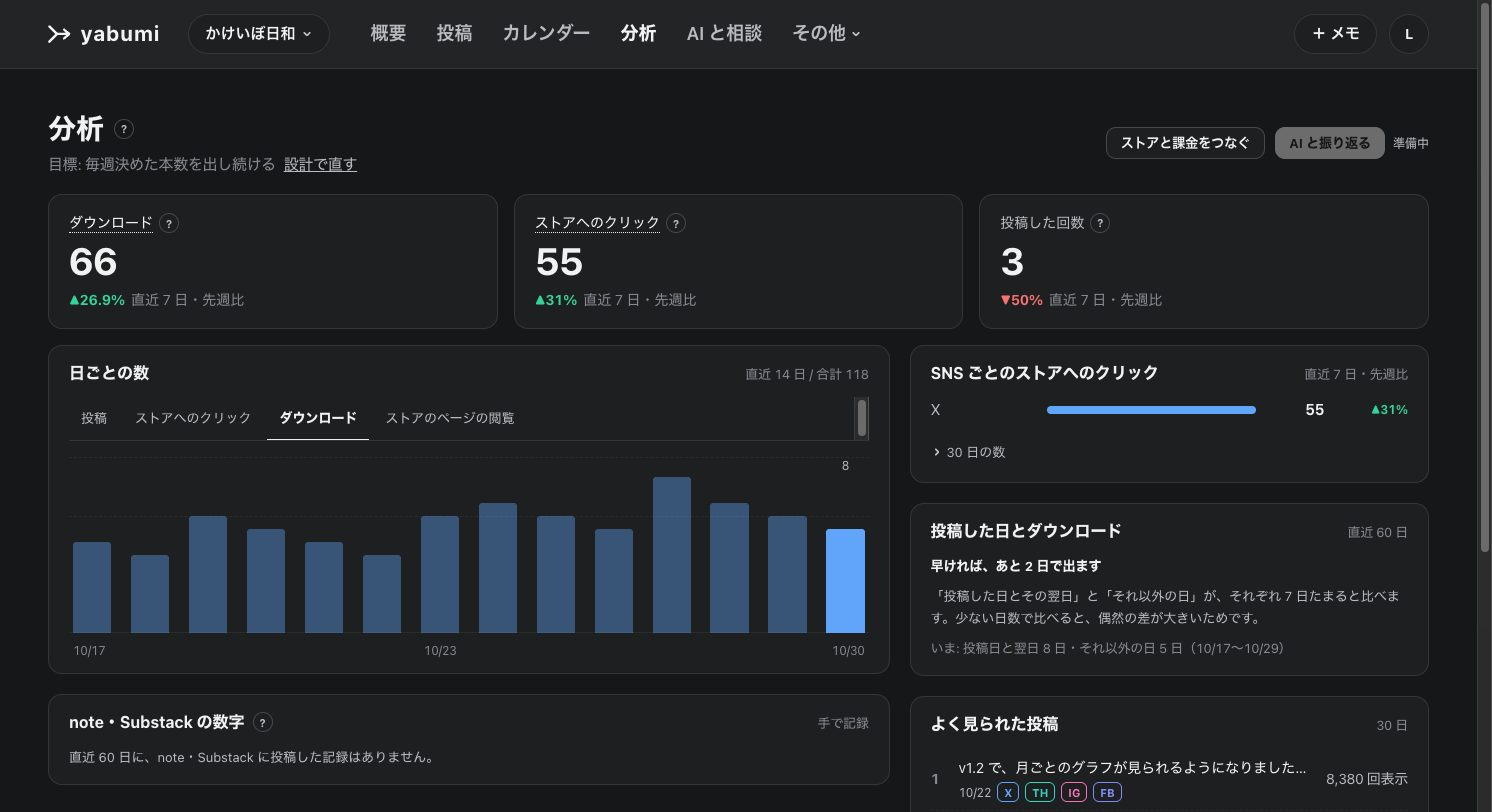
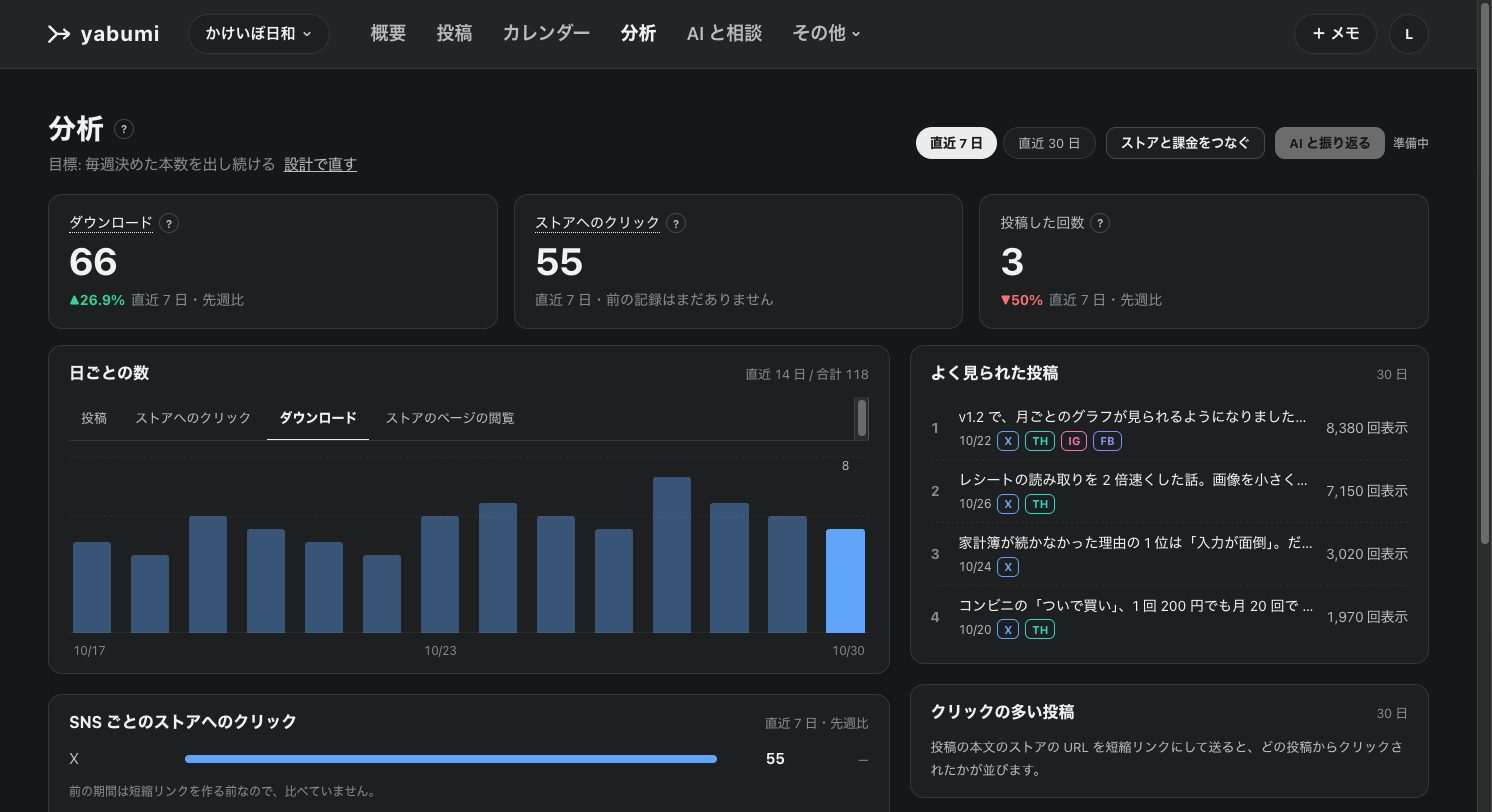
LP の分析の見本を撮り直し、ONE ARROW, EVERY FEED を LP の最初と下の帯だけに出すと README に書く（PM の依頼）
- public/lp/metrics-*.jpg: main の最新の分析の画面（直近 7 日／30 日の切り替えつき）で撮り直した（scripts/lp-demo.mjs の見本用データ）
- docs/design/new_design/README.md の「ロゴ」: 英字の一言は LP の最初の画面と下の帯だけに出し、ログイン後の画面・メール・OGP には出さない

diff --git a/src/app/page.tsx b/src/app/page.tsx
@@ -179,7 +179,7 @@ export default async function Home(props: PageProps<"/">) {
           <div className="grid grid-cols-[minmax(0,1fr)_minmax(0,1.15fr)] items-center gap-12 max-lg:grid-cols-1 max-lg:gap-8">
             <div className="flex flex-col gap-6 max-sm:gap-5">
               <p className="flex flex-col gap-1">
-                {/* ロゴに添える一言（ONE ARROW, EVERY FEED）。LP の最初と下の帯だけに出す（PM に確認中の提案） */}
+                {/* ロゴに添える一言（ONE ARROW, EVERY FEED）。LP の最初と下の帯だけに出す（docs/design/new_design/README.md の「ロゴ」） */}
                 <span className="text-[13px] font-bold tracking-[.25em] text-faint">ONE ARROW, EVERY FEED</span>
                 <span className="text-[15px] font-bold text-muted">個人開発者のための SNS 運用ツール</span>
               </p>

diff --git a/docs/design/new_design/README.md b/docs/design/new_design/README.md
@@ -163,7 +163,7 @@
 
 ## ロゴ
 
-- 矢のマーク ＋ 小文字の「yabumi」です（D ミニマル）。ロゴの下の英字の一言（ONE ARROW, EVERY FEED）は見本だけのもので、画面には出しません。
+- 矢のマーク ＋ 小文字の「yabumi」です（D ミニマル）。英字の一言（ONE ARROW, EVERY FEED）は、LP（/）の最初の画面（見出しの上の小さな添え字）と下の帯（ロゴの横）だけに出します。ログイン後の画面・メール・OGP には出しません（2026-10-30 PM の決定）。
 - 画面の文言・`<title>`・メールの差出人の名前は「矢書」のままです。ロゴだけを yabumi にします。
 - マークは SVG で、線だけで描きます（`LogoMark`、色は文字の色）。形は `LOGO_MARK_PATH` の 1 か所にあります。
 - 色はロゴの墨（`logo`）で、押すもの（黒）とは分けています。
